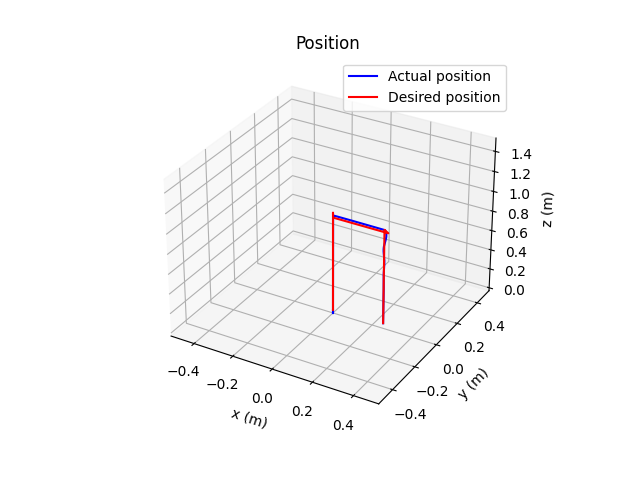
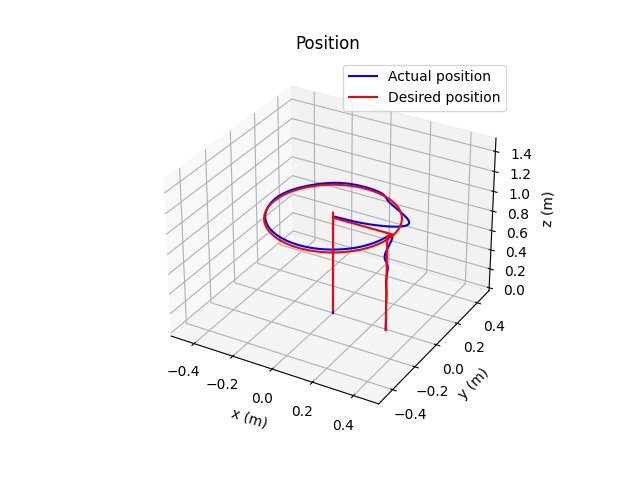
update

diff --git a/traj.py b/traj.py
@@ -78,7 +78,10 @@ class TrajectoryGenerator():
             duration = 6.
             for i in np.arange(0, duration, self.dt):
                 vec = desstatevec.copy() 
-                vec[0] = 0.3 * (i/duration)
+                # vec[0] = 0.3 * (i/duration)
+                omega = 2*np.pi * i/duration
+                vec[0] = vec[0] + 0.3 * np.cos(omega)
+                vec[1] = vec[1] + 0.3 * np.sin(omega)
 
                 vec[5] = 0.3/duration
                 self.trajectory.append(vec.copy())
